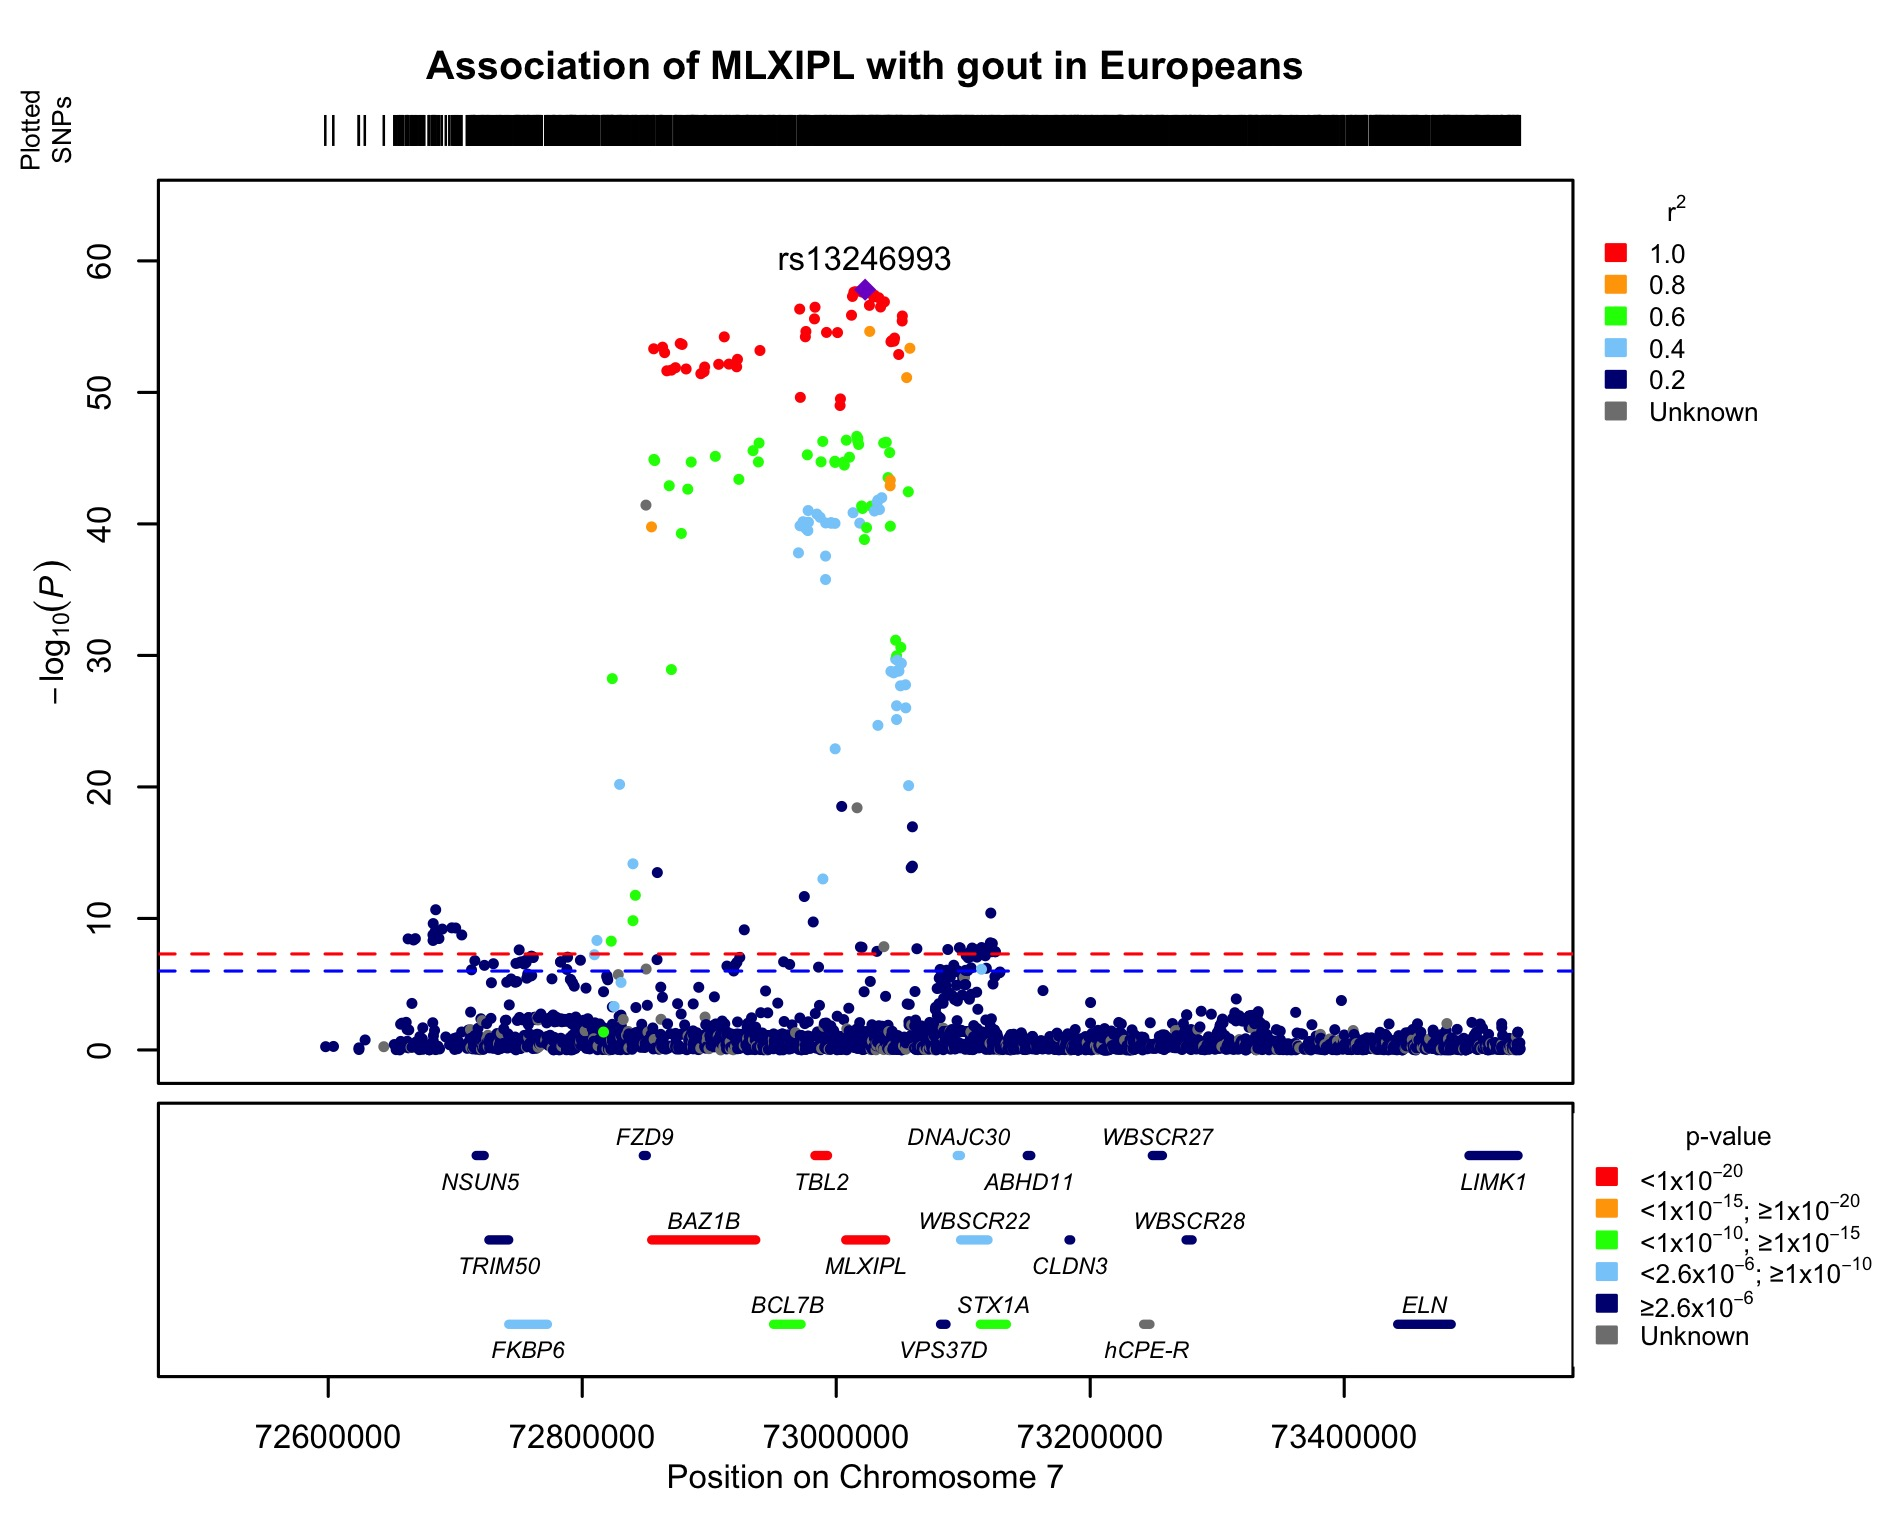
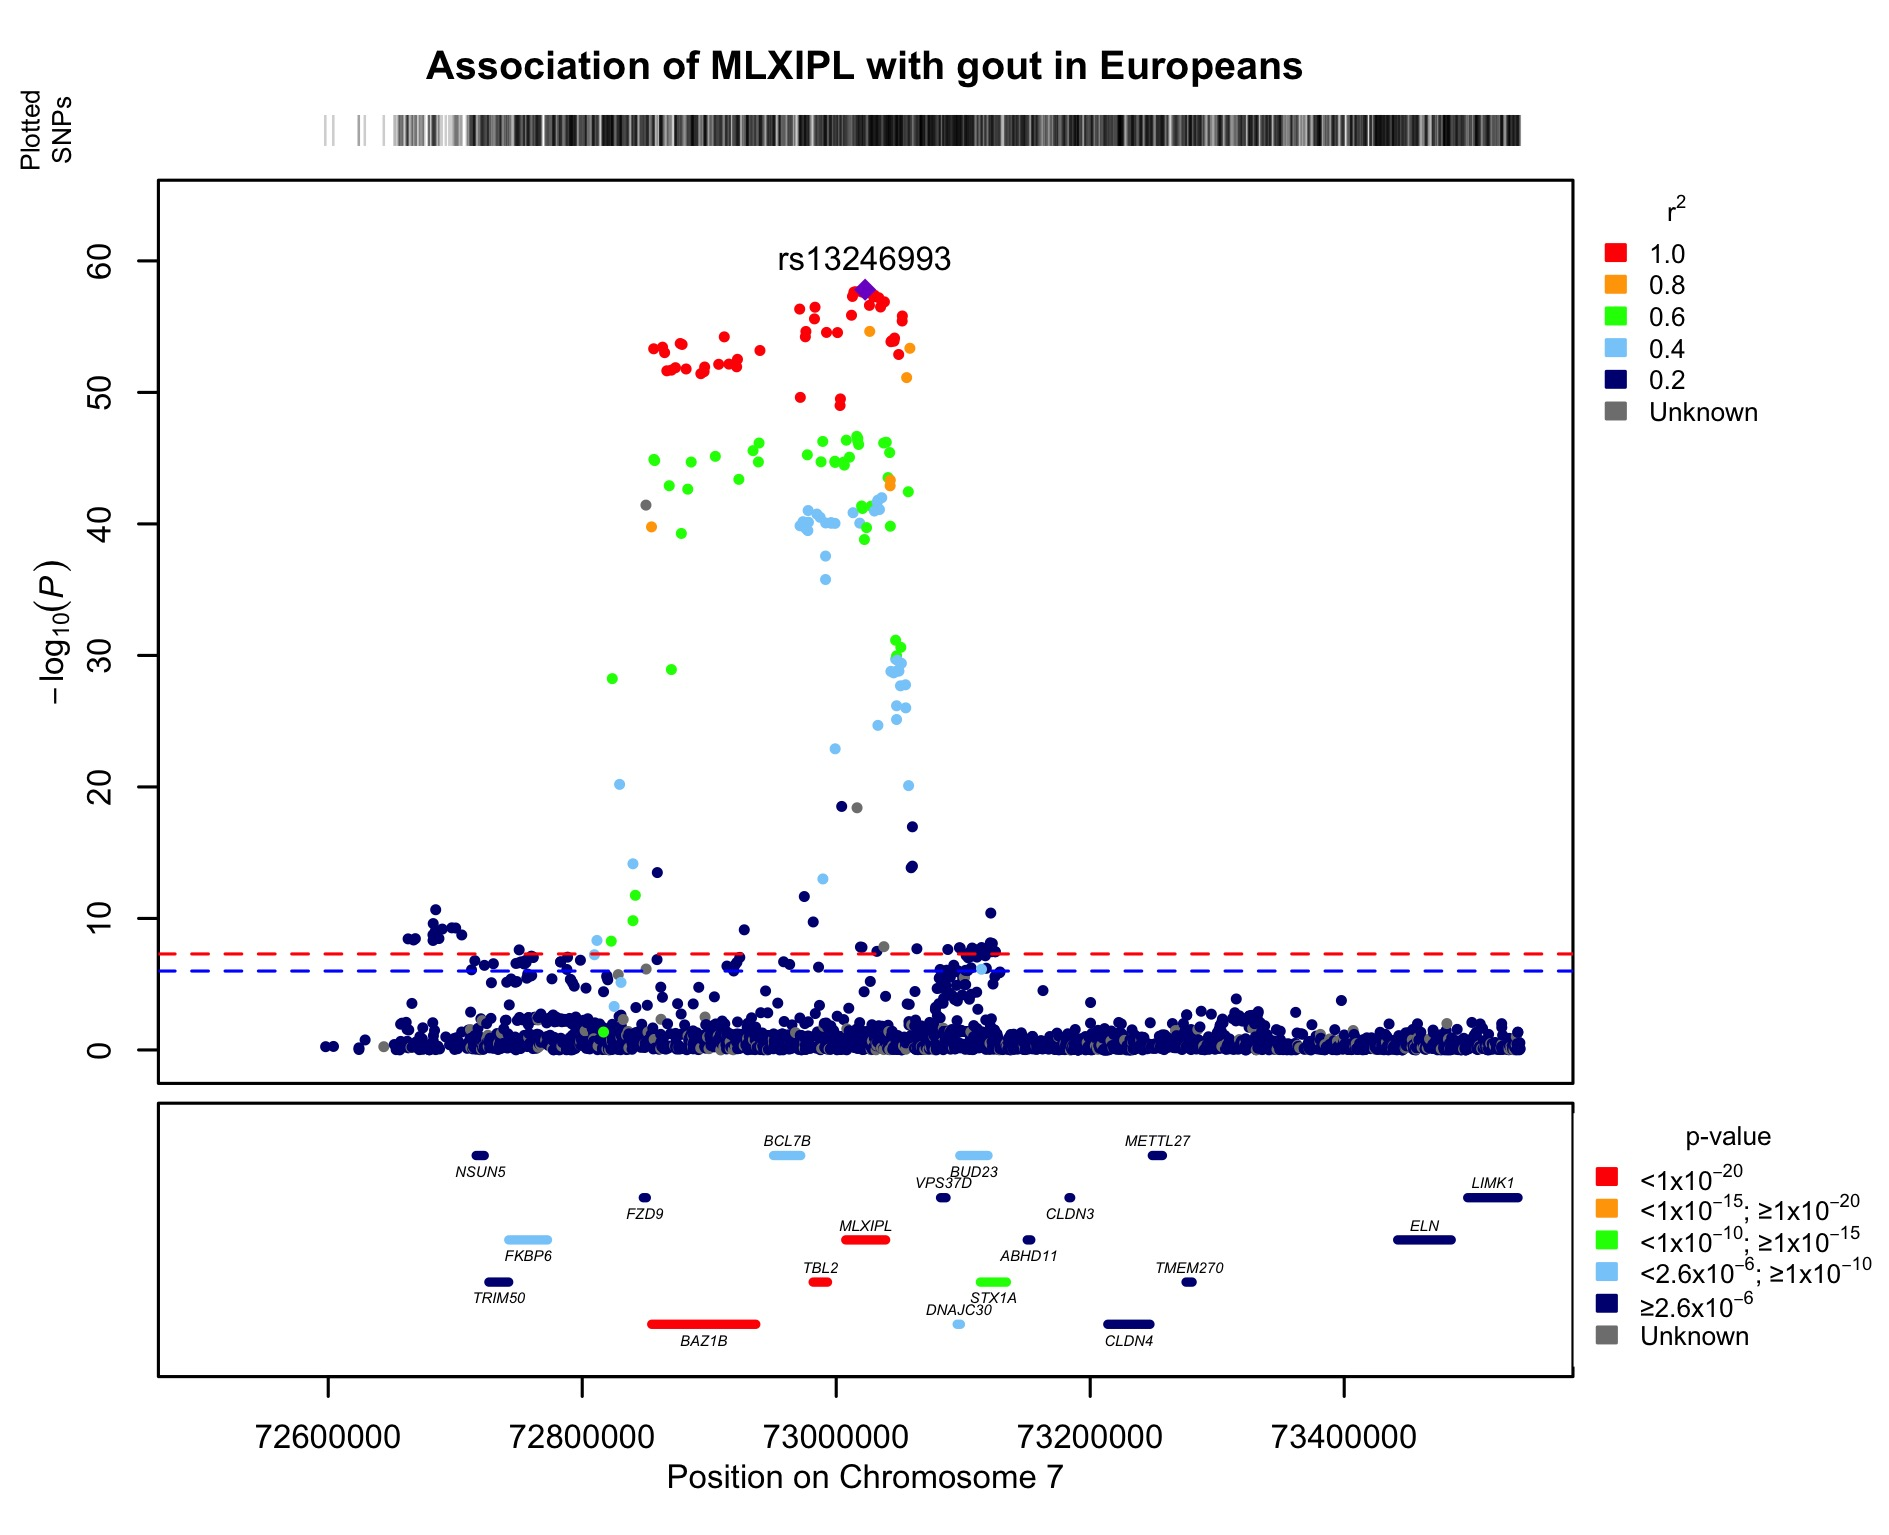
added transparency to SNP track lines to visualise SNP density

diff --git a/README.md b/README.md
@@ -5,6 +5,8 @@
 
 This script creates an R function to create regional Manhattan plots with points coloured according to LD and genes annotated beneath. Three example input files are included for test purposes, along with an example .jpg output.
 
+This script has one package dependency: `scales`
+
   - Example.assoc.linear: A file of PLINK association results (only the "CHR", "SNP", "BP", and "P" columns are essential)
   - Example.ld: A file of the LD between the SNP to be labelled (top-hit / SNP of interest) and the SNPs included in the PLINK results file
     - this file MUST have a column called "SNP_B" (containing a list of all the SNPs in the results file) and a column called "R2" (containing the R^2 LD value of each SNP). The SNP names MUST match the names in the SNP column of the results file.
@@ -79,10 +81,10 @@ _This is not reproducible from the example data._
 locus.zoom(data = EUR_meta_full1_clean_rsid.nfiltered_chr7,
            gene = "MLXIPL",
            offset_bp = 500000,
-           genes.data = UCSC_GRCh37_Genes_UniqueList2017,
+           genes.data = Gencode_GRCh37_Genes_UniqueList2021,
            plot.title = "Association of MLXIPL with gout in Europeans",
            file.name = "alternateExample.jpg",
-           genes.pvalue = European_GWAS_2020_test.genes_named,
+           genes.pvalue = MAGMA_EUR_meta_full_Gencode2021,
            colour.genes = TRUE)
 ```
 
